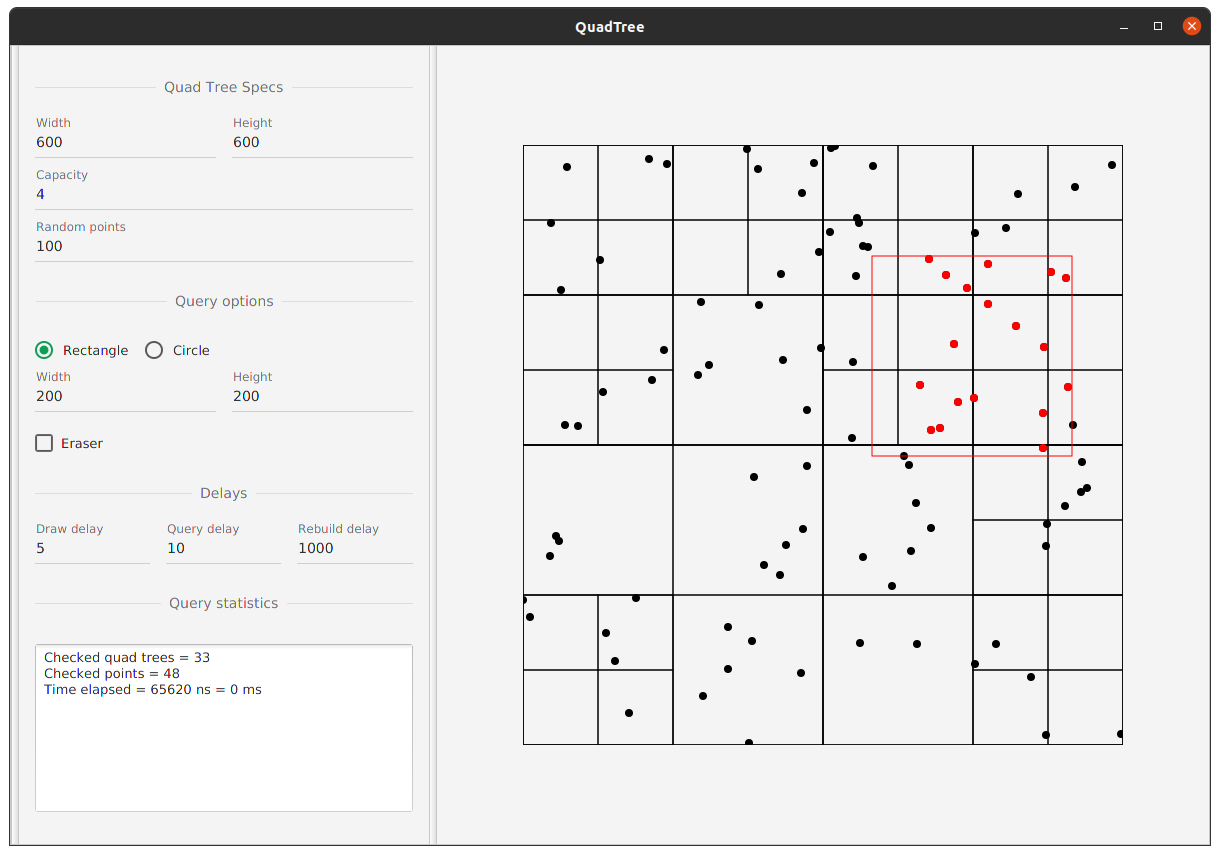
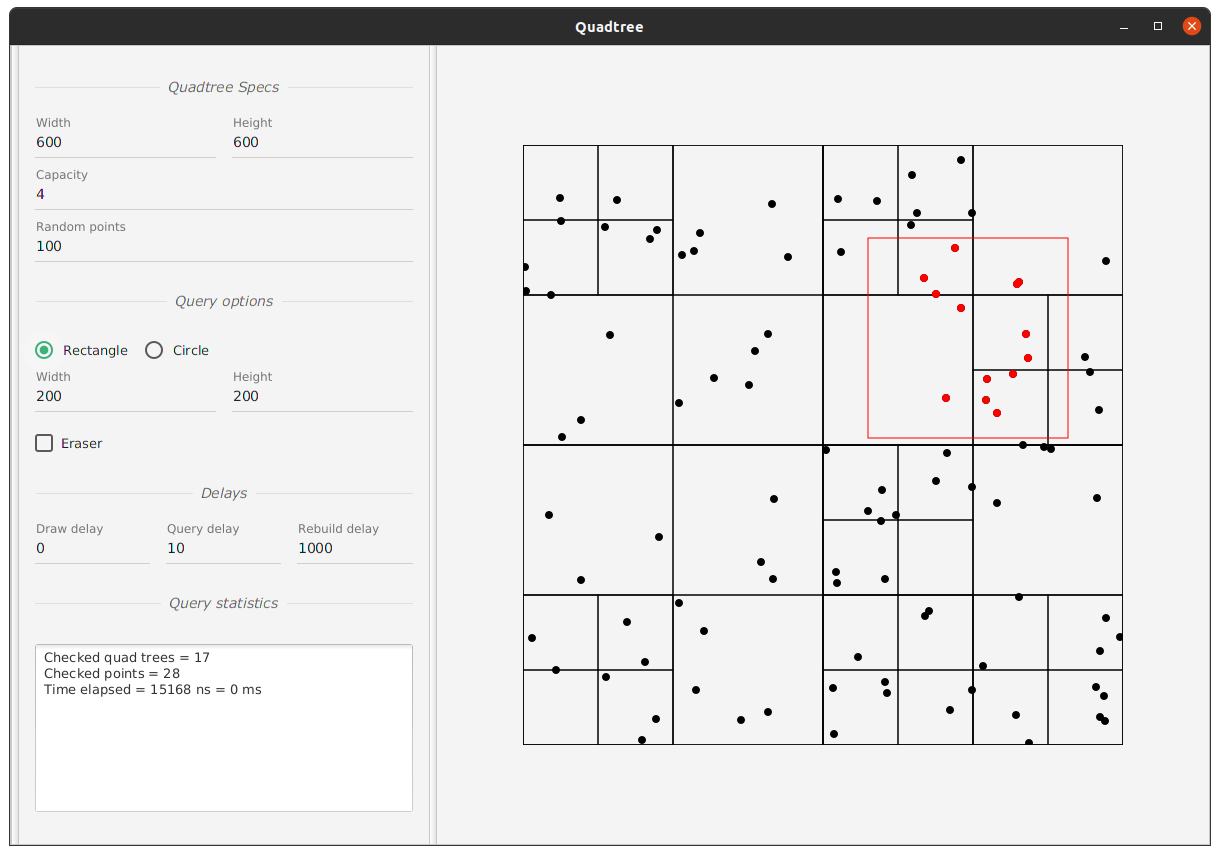
'QuadTree' to 'Quadtree'
Closes #25

diff --git a/src/main/kotlin/io/github/agcom/quadtree/controllers/HomeController.kt b/src/main/kotlin/io/github/agcom/quadtree/controllers/HomeController.kt
@@ -31,7 +31,7 @@ import kotlin.time.ExperimentalTime
 @ExperimentalTime
 class HomeController : Initializable {
 
-    @FXML private lateinit var quadTreeController: QuadTreeController
+    @FXML private lateinit var quadtreeController: QuadtreeController
     @FXML private lateinit var controlPane: VBox
     @FXML private lateinit var logs: TextArea
     @FXML private lateinit var queryShapeGroup: ToggleGroup
@@ -62,7 +62,7 @@ class HomeController : Initializable {
 
     override fun initialize(location: URL?, resources: ResourceBundle?) {
 
-        quadTreeController.also {
+        quadtreeController.also {
 
             it.queryStatistics.value = queryStatistics
             it.erase.bindBidirectional(eraser.selectedProperty())
@@ -132,7 +132,7 @@ class HomeController : Initializable {
 
         val count = randomize.text?.toIntOrNull() ?: 100
 
-        val qTree = quadTreeController.quadTree.value
+        val qTree = quadtreeController.quadTree.value
 
         qTree.clear()
 
@@ -146,7 +146,7 @@ class HomeController : Initializable {
 
         }
 
-        Platform.runLater { quadTreeController.quadTreeModified() }
+        Platform.runLater { quadtreeController.quadTreeModified() }
 
     }
 
@@ -162,7 +162,7 @@ class HomeController : Initializable {
 
         rebuildDisposable = Single.fromCallable {
 
-            val old = quadTreeController.quadTree.value
+            val old = quadtreeController.quadTree.value
 
             val new = QuadTree(Rectangle(width.text?.toIntOrNull() ?: 600, height.text?.toIntOrNull() ?: 600), capacity.text?.toIntOrNull() ?: 4)
 
@@ -175,7 +175,7 @@ class HomeController : Initializable {
             .subscribeOn(Schedulers.computation())
             .subscribe({
 
-                quadTreeController.quadTree.value = it
+                quadtreeController.quadTree.value = it
 
             }, Throwable::printStackTrace)
 

diff --git a/src/main/kotlin/io/github/agcom/quadtree/controllers/QuadtreeController.kt b/src/main/kotlin/io/github/agcom/quadtree/controllers/QuadtreeController.kt
@@ -28,7 +28,7 @@ import java.util.concurrent.TimeUnit
 import kotlin.time.ExperimentalTime
 
 @ExperimentalTime
-class QuadTreeController : Initializable {
+class QuadtreeController : Initializable {
 
     val quadTree = SimpleObjectProperty<QuadTree>()
     val query = SimpleObjectProperty<AreaShape>()
@@ -43,7 +43,7 @@ class QuadTreeController : Initializable {
     @FXML
     private lateinit var queryCanvas: Canvas
     @FXML
-    private lateinit var quadTreeCanvas: Canvas
+    private lateinit var quadtreeCanvas: Canvas
     @FXML
     private lateinit var queryArea: BorderPane
     @FXML
@@ -81,7 +81,7 @@ class QuadTreeController : Initializable {
 
         }
 
-        quadTreeCanvas.also {
+        quadtreeCanvas.also {
 
             it.widthProperty().bind(width)
             it.heightProperty().bind(height)
@@ -118,7 +118,7 @@ class QuadTreeController : Initializable {
 
             }
 
-            quadTree.value.draw(quadTreeCanvas)
+            quadTree.value.draw(quadtreeCanvas)
 
         }
 
@@ -183,8 +183,8 @@ class QuadTreeController : Initializable {
 
         drawDisposable = Completable.fromAction {
 
-            quadTreeCanvas.clear()
-            quadTree.value?.draw(quadTreeCanvas)
+            quadtreeCanvas.clear()
+            quadTree.value?.draw(quadtreeCanvas)
             query()
 
         }.subscribeOn(JavaFxScheduler.platform())

diff --git a/src/main/kotlin/io/github/agcom/quadtree/Launcher.kt b/src/main/kotlin/io/github/agcom/quadtree/Launcher.kt
@@ -18,7 +18,7 @@ class Launcher : Application() {
         primaryStage.apply {
 
             scene = Scene(loadFXML("layouts/home.fxml"))
-            title = "QuadTree"
+            title = "Quadtree"
             icons.add(Image("images/launcher.png".toStream()))
             show()
 
